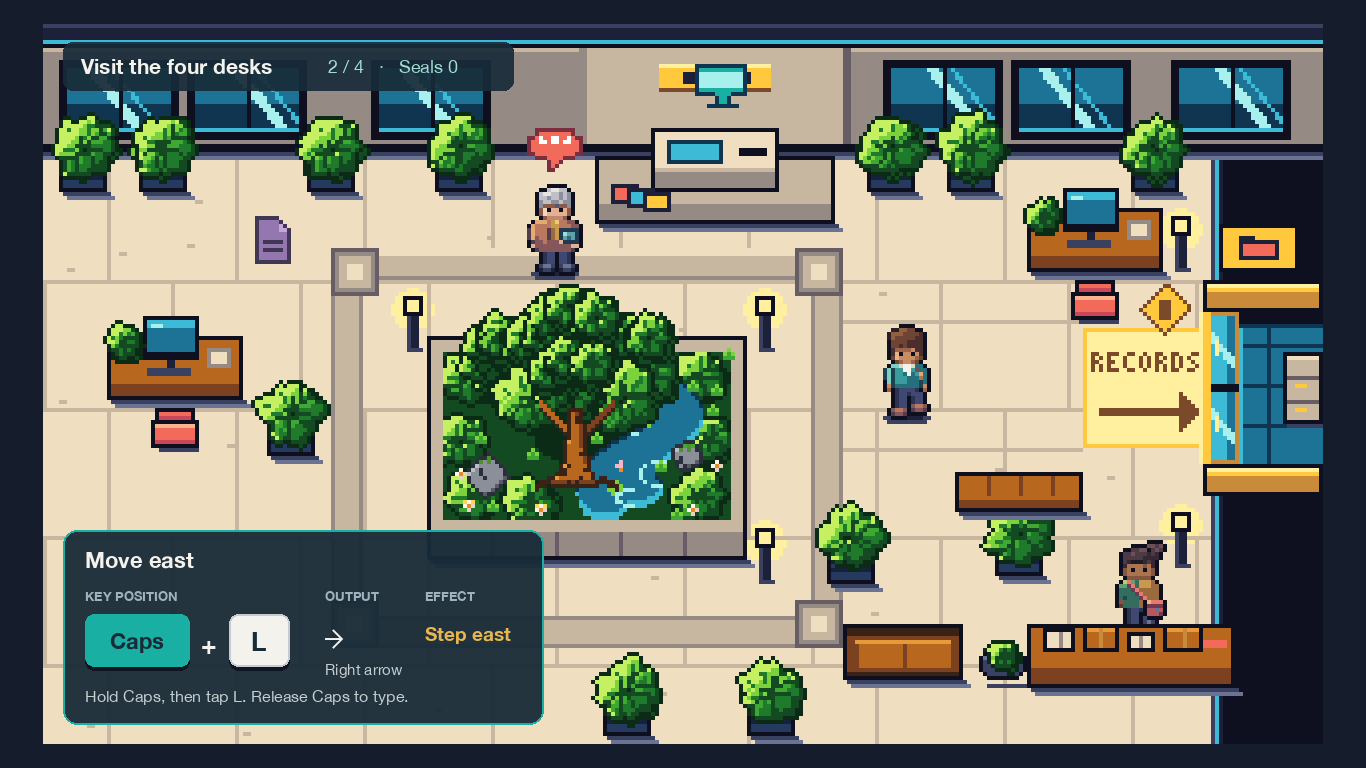
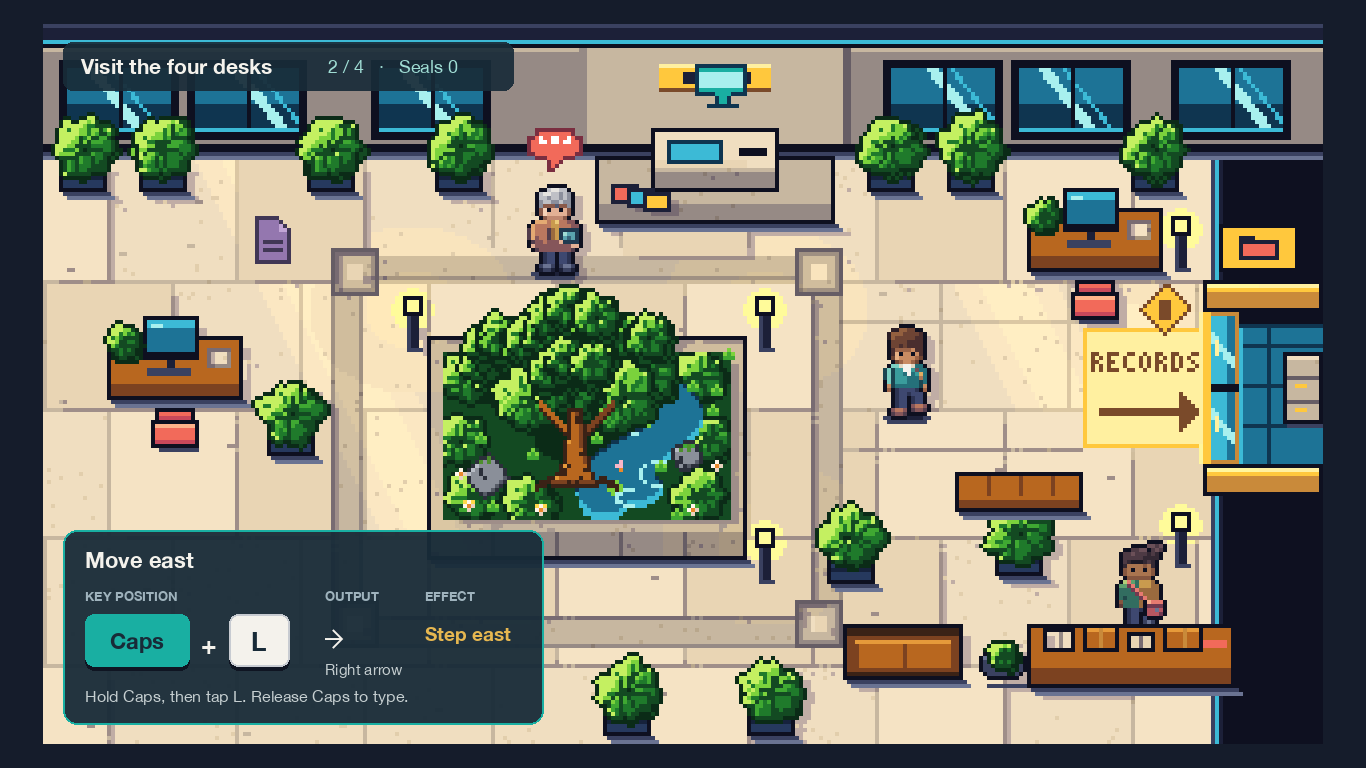
feat(art): rich finish light passes in the Orientation review room

diff --git a/art-direction/kit/rich_finish.py b/art-direction/kit/rich_finish.py
@@ -272,3 +272,118 @@ def flower(r, x, y, pair=False):
     if pair:
         r.img[y - 1, x - 1] = YELLOW
         r.img[y - 1, x + 1] = YELLOW
+
+
+# ------------------------------------------------------------------ light passes (RICH_FINISH_SPEC.md section 4)
+# Applied to a finished 320x192 frame, after the room is drawn and recoloured and before the floating markers.
+# Every pass adds or multiplies by a constant on a mask, so each result is a flat colour step.
+
+WALL_Y = 34  # first floor row below the north wall
+
+
+def _tint(a, mask, mul=(1, 1, 1), add=(0, 0, 0)):
+    f = a[mask].astype(np.float32) * np.array(mul, np.float32) + np.array(add, np.float32)
+    a[mask] = np.clip(f, 0, 255).astype(np.uint8)
+
+
+def _shift(m, dx, dy):
+    out = np.zeros_like(m)
+    h, w = m.shape
+    ys, xs = slice(max(0, dy), min(h, h + dy)), slice(max(0, dx), min(w, w + dx))
+    yo, xo = slice(max(0, -dy), min(h, h - dy)), slice(max(0, -dx), min(w, w - dx))
+    out[ys, xs] = m[yo, xo]
+    return out
+
+
+def floor_mask(a, floor):
+    """Pixels of the plain floor, joints and inlay band; `floor` = [fill, joint, inlay] RGB triples."""
+    m = np.zeros(a.shape[:2], bool)
+    for c in floor:
+        m |= np.all(a == np.asarray(c, np.uint8), axis=2)
+    m[:WALL_Y] = False
+    return m
+
+
+def slab_variation(a, floor, seed=3):
+    """28% of the 32 px running-bond slabs drop a step, 22% rise one; 1.8% of floor pixels get a wear speck."""
+    rnd = np.random.RandomState(seed)
+    f = np.all(a == np.asarray(floor[0], np.uint8), axis=2)
+    f[:WALL_Y] = False
+    for row in range(0, 192, 32):
+        off = 16 if (row // 32) % 2 else 0
+        for col in range(off - 32, 320, 32):
+            m = np.zeros_like(f)
+            m[max(0, row + 1):row + 32, max(0, col + 1):col + 32] = True
+            m &= f
+            roll = rnd.rand()
+            if roll < 0.28:
+                _tint(a, m, add=(-7, -9, -12))
+            elif roll < 0.5:
+                _tint(a, m, add=(5, 5, 4))
+    g = floor_mask(a, floor)
+    _tint(a, g & (rnd.rand(*g.shape) < 0.018), add=(-14, -16, -20))
+
+
+def cast_shadows(a, objects, floor, dx=4, dy=3, mul=(0.80, 0.78, 0.86)):
+    """A flat shadow patch on the floor, offset away from the upper-left light, from every object pixel."""
+    fl = floor_mask(a, floor)
+    obj = objects & ~fl
+    obj[:WALL_Y] = False
+    sh = _shift(obj, dx, dy) & _shift(obj, dx // 2, dy // 2) & fl
+    _tint(a, sh, mul=mul)
+
+
+def lamp_glow(a, lamps, floor, glow_pixel, r_out=26, r_in=12, add_out=(9, 6, -3), add_in=(16, 11, -6)):
+    """Two hard-edged warm steps on the floor around each lamp (ellipse, vertical stretch 1.25)."""
+    fl = floor_mask(a, floor) | np.all(a == np.asarray(glow_pixel, np.uint8), axis=2)
+    yy, xx = np.mgrid[0:a.shape[0], 0:a.shape[1]]
+    for cx, cy in lamps:
+        d = np.hypot(xx - cx, (yy - cy) * 1.25)
+        _tint(a, fl & (d < r_out) & (d >= r_in), add=add_out)
+        _tint(a, fl & (d < r_in), add=add_in)
+
+
+def light_shafts(a, windows, floor, slope=0.5, y_end=150, add=(11, 9, 2), add_core=(9, 7, 1)):
+    """Diagonal bands from the north windows, two flat steps; windows = [(x, width)]."""
+    fl = floor_mask(a, floor)
+    yy, xx = np.mgrid[0:a.shape[0], 0:a.shape[1]]
+    for x0, w in windows:
+        sx = (yy - WALL_Y) * slope
+        band = (xx >= x0 + sx) & (xx < x0 + w + sx) & (yy < y_end)
+        core = (xx >= x0 + sx + w * 0.25) & (xx < x0 + w * 0.75 + sx) & (yy < y_end)
+        _tint(a, fl & band, add=add)
+        _tint(a, fl & core, add=add_core)
+
+
+def light_room(a, floor, lamps, windows, glow_pixel, canopy=None, no_shadow_from_x=292, rug=None):
+    """The whole light stage in spec order. `canopy` = (box, green colours) for the tree's larger shadow;
+    `rug` = a (y0, y1, x0, x1) box whose pixels cast no shadow. Modifies and returns a."""
+    slab_variation(a, floor)
+    fl = floor_mask(a, floor)
+    objects = ~fl
+    objects[:, no_shadow_from_x:] = False
+    if rug is not None:
+        y0, y1, x0, x1 = rug
+        objects[y0:y1, x0:x1] = False
+    cast_shadows(a, objects, floor)
+    if canopy is not None:
+        (y0, y1, x0, x1), greens = canopy
+        g = np.zeros(a.shape[:2], bool)
+        for c in greens:
+            g |= np.all(a == np.asarray(c, np.uint8), axis=2)
+        box = np.zeros_like(g)
+        box[y0:y1, x0:x1] = True
+        cast_shadows(a, g & box, floor, dx=10, dy=8, mul=(0.84, 0.84, 0.90))
+    lamp_glow(a, lamps, floor, glow_pixel)
+    light_shafts(a, windows, floor)
+    return a
+
+
+def light_orientation(a, bst):
+    """The reference light for the Orientation review room (Mock 2.1): five lamps, three north windows,
+    the tree's canopy shadow, and no shadow from the east wall mass or the rug at the doorway."""
+    floor = [bst.STONE[3], bst.STONE[2], bst.STONE[1]]
+    fol = [hx(h) for h in dp.FOLIAGE_TONES]
+    return light_room(a, floor, [(x, y - 1) for x, y in ((92, 72), (180, 72), (180, 130), (284, 52), (284, 126))],
+                      [(38, 26), (212, 26), (244, 26)], bst.BRASS[3], canopy=((56, 136, 90, 182), fol[1:]),
+                      rug=(76, 106, 260, 292))

diff --git a/art-direction/kit/build_room.py b/art-direction/kit/build_room.py
@@ -2,7 +2,7 @@
 
 Run: python3 build_room.py   (Pillow + numpy)
 Reads  orientation-atlas.json/.png and orientation-review-room.json (this folder).
-Writes orientation-review-room-native.png (320x192, no actors) and
+Writes orientation-review-room-native.png (320x192, no actors, with the rich-finish light stage) and
        orientation-review-room-1366x768.png (the Gate 1 still, drawn from the atlas).
 Exit code 1 unless every comparison below has zero differing pixels:
   1. rebuilt room vs the approved room (env.draw + env.mail_counter), door closed / half / open
@@ -21,6 +21,8 @@ sys.path.insert(0, HERE)
 for sub in ("gate1", "scale-test", "cast"):
     sys.path.insert(0, os.path.join(HERE, "..", sub))
 import kitlib  # noqa: E402
+import rich_finish as rf  # noqa: E402
+import build_scale_test as bst  # noqa: E402
 import build_gate1 as g  # noqa: E402
 import engineer_sprites as eng  # noqa: E402
 import environment as env  # noqa: E402
@@ -52,8 +54,8 @@ class AtlasEnvironment:
     """Context manager: swap environment.draw / mail_counter for the atlas renderer so the
     unmodified build_gate1.scene() draws the room from atlas data."""
 
-    def __init__(self, layout, atlas):
-        self.layout, self.atlas = layout, atlas
+    def __init__(self, layout, atlas, lit=False):
+        self.layout, self.atlas, self.lit = layout, atlas, lit
 
     def __enter__(self):
         self.saved = (env.draw, env.mail_counter)
@@ -65,6 +67,8 @@ class AtlasEnvironment:
         def mail_counter(room, x, y):
             assert (x, y) == (246, 150)
             rebuild(self.layout, self.atlas, 0.0, layers={"front_prop"}, base=room.img)
+            if self.lit:
+                rf.light_orientation(room.img, bst)  # the rich-finish light stage, before the markers
 
         env.draw, env.mail_counter = draw, mail_counter
         return self
@@ -88,6 +92,8 @@ def verify(layout, atlas, verbose=True):
     results = {}
     for d in DOOR_STATE:
         results[f"room, door {DOOR_STATE[d]}"] = count(rebuild(layout, atlas, d), approved_room(d))
+    results["lit room, door closed"] = count(rf.light_orientation(rebuild(layout, atlas, 0.0), bst),
+                                            rf.light_orientation(approved_room(0.0), bst))
     originals = {d: g.scene(*STILL, door_open=d) for d in DOOR_STATE}
     screens = {d: g.to_screen(originals[d])[1] for d in DOOR_STATE}
     with AtlasEnvironment(layout, atlas):
@@ -107,9 +113,9 @@ def build(write=True):
     atlas, layout = load()
     results = verify(layout, atlas)
     if write:
-        room = rebuild(layout, atlas, 0.0)
+        room = rf.light_orientation(rebuild(layout, atlas, 0.0), bst)
         Image.fromarray(room).save(os.path.join(HERE, "orientation-review-room-native.png"))
-        with AtlasEnvironment(layout, atlas):
+        with AtlasEnvironment(layout, atlas, lit=True):
             screen = g.to_screen(g.scene(*STILL))[1]
         screen.save(os.path.join(HERE, "orientation-review-room-1366x768.png"))
     return results
